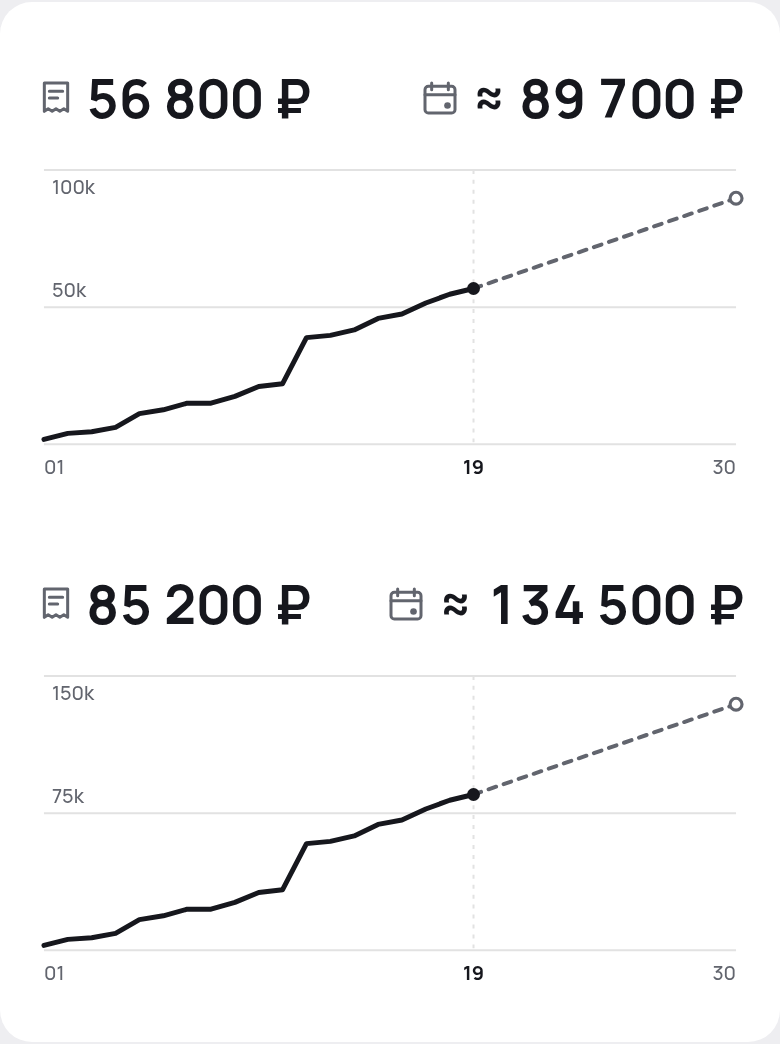
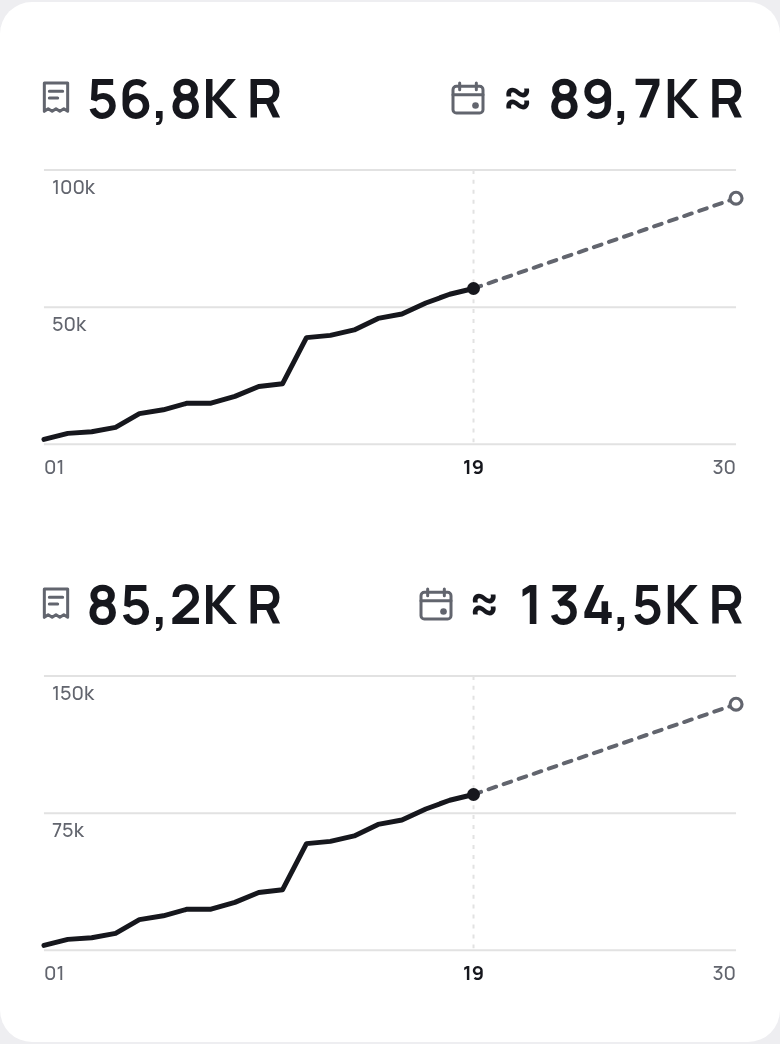
docs: shorten finance month and summary amounts (#267)

diff --git a/design/approved/267/screens.html b/design/approved/267/screens.html
@@ -54,26 +54,26 @@
   .finance-tabs button[aria-current]{color:var(--ink)}
   @media(max-width:360px){.finance-body{padding-inline:12px}}
 </style><main>
-<div class="screen" id="overview"><div class="month"><span aria-hidden="true">‹</span><h1>Ноябрь 2026</h1><span aria-hidden="true">›</span></div>
+<div class="screen" id="overview"><div class="month"><span aria-hidden="true">‹</span><h1>ноя 26</h1><span aria-hidden="true">›</span></div>
 <section class="pace" data-days="30" data-actual-days="19">
     <div class="pace-summary"><div class="pace-amount amount-actual">
       <span class="pace-icon" role="img" aria-label="Потрачено с начала месяца">
         <svg viewBox="0 0 24 24" aria-hidden="true" stroke="currentColor" stroke-width="1.8" stroke-linecap="round">
           <path d="M5 3h14v17l-2.3-1.5-2.4 1.5-2.3-1.5L9.7 20l-2.4-1.5L5 20V3ZM8 8h8m-8 4h5"/>
         </svg></span>
-      <b>28 400 ₽</b></div><div class="pace-amount amount-estimate">
+      <b>28,4K R</b></div><div class="pace-amount amount-estimate">
           <span class="pace-icon" role="img" aria-label="Прогноз на конец месяца">
             <svg viewBox="0 0 24 24" aria-hidden="true" fill="none" stroke="currentColor" stroke-width="1.8" stroke-linecap="round">
               <rect x="3" y="5" width="18" height="16" rx="2"/>
               <path d="M7 3v4m10-4v4M3 10h18"/>
               <circle cx="16.5" cy="16.5" r="2" fill="currentColor" stroke="none"/>
             </svg></span>
-          <b>≈ 44 800 ₽</b></div></div>
+          <b>≈ 44,8K R</b></div></div>
     <svg viewBox="0 0 356 178" role="img" aria-label="С 1 по 19 число потрачено 28 400 ₽. Прогноз на 30 число — около 44 800 ₽.">
       <path d="M4 8H352 M4 77H352 M4 146H352" class="grid"/><line x1="220.00" y1="8" x2="220.00" y2="146" class="cutoff"/><line x1="220.00" y1="67.62" x2="352.00" y2="22.24" class="forecast"/>
         <circle cx="352.00" cy="22.24" r="3" class="estimate-dot"/>
       <polyline points="4.00,143.52 16.00,140.48 28.00,139.65 40.00,137.44 52.00,130.54 64.00,128.61 76.00,125.30 88.00,125.30 100.00,121.85 112.00,116.88 124.00,115.50 136.00,92.32 148.00,91.21 160.00,88.45 172.00,82.66 184.00,80.45 196.00,74.93 208.00,70.51 220.00,67.62" class="trend"/>
-      <circle cx="220.00" cy="67.62" r="3.25" class="actual-dot"/><text class="value-tick" x="8" y="20">50k</text><text class="value-tick" x="8" y="72">25k</text><text class="date-tick" x="4.00" y="161" text-anchor="start">01</text><text class="current-date" x="220.00" y="161" text-anchor="middle">19</text><text class="date-tick" x="352.00" y="161" text-anchor="end">30</text>
+      <circle cx="220.00" cy="67.62" r="3.25" class="actual-dot"/><text class="value-tick" x="8" y="20">50k</text><text class="value-tick" x="8" y="89">25k</text><text class="date-tick" x="4.00" y="161" text-anchor="start">01</text><text class="current-date" x="220.00" y="161" text-anchor="middle">19</text><text class="date-tick" x="352.00" y="161" text-anchor="end">30</text>
     </svg></section><section class="rankings" aria-label="Распределение расходов за месяц">
       <div class="tables">
         <table class="categories">
@@ -104,11 +104,11 @@
         <svg viewBox="0 0 24 24" aria-hidden="true" stroke="currentColor" stroke-width="1.8" stroke-linecap="round">
           <path d="M5 3h14v17l-2.3-1.5-2.4 1.5-2.3-1.5L9.7 20l-2.4-1.5L5 20V3ZM8 8h8m-8 4h5"/>
         </svg></span>
-      <b>36 200 ₽</b></div></div>
+      <b>36,2K R</b></div></div>
     <svg viewBox="0 0 356 178" role="img" aria-label="С 1 по 31 число потрачено 36 200 ₽.">
       <path d="M4 8H352 M4 77H352 M4 146H352" class="grid"/>
       <polyline points="4.00,142.90 15.60,139.10 27.20,138.06 38.80,135.31 50.40,126.68 62.00,124.27 73.60,120.12 85.20,120.12 96.80,115.81 108.40,109.60 120.00,107.88 131.60,78.90 143.20,77.52 154.80,74.07 166.40,66.82 178.00,64.06 189.60,57.16 201.20,51.64 212.80,48.02 224.40,45.78 236.00,43.53 247.60,41.29 259.20,39.05 270.80,36.81 282.40,34.56 294.00,32.32 305.60,30.08 317.20,27.84 328.80,25.59 340.40,23.35 352.00,21.11" class="trend"/>
-      <circle cx="352.00" cy="21.11" r="3.25" class="actual-dot"/><text class="value-tick" x="8" y="20">40k</text><text class="value-tick" x="8" y="72">20k</text><text class="date-tick" x="4.00" y="161" text-anchor="start">01</text><text class="date-tick" x="352.00" y="161" text-anchor="end">31</text>
+      <circle cx="352.00" cy="21.11" r="3.25" class="actual-dot"/><text class="value-tick" x="8" y="20">40k</text><text class="value-tick" x="8" y="89">20k</text><text class="date-tick" x="4.00" y="161" text-anchor="start">01</text><text class="date-tick" x="352.00" y="161" text-anchor="end">31</text>
     </svg></section></div>
 <div class="screen" id="scale-examples"><section class="pace" data-days="30" data-actual-days="19">
     <div class="pace-summary"><div class="pace-amount amount-actual">
@@ -116,38 +116,38 @@
         <svg viewBox="0 0 24 24" aria-hidden="true" stroke="currentColor" stroke-width="1.8" stroke-linecap="round">
           <path d="M5 3h14v17l-2.3-1.5-2.4 1.5-2.3-1.5L9.7 20l-2.4-1.5L5 20V3ZM8 8h8m-8 4h5"/>
         </svg></span>
-      <b>56 800 ₽</b></div><div class="pace-amount amount-estimate">
+      <b>56,8K R</b></div><div class="pace-amount amount-estimate">
           <span class="pace-icon" role="img" aria-label="Прогноз на конец месяца">
             <svg viewBox="0 0 24 24" aria-hidden="true" fill="none" stroke="currentColor" stroke-width="1.8" stroke-linecap="round">
               <rect x="3" y="5" width="18" height="16" rx="2"/>
               <path d="M7 3v4m10-4v4M3 10h18"/>
               <circle cx="16.5" cy="16.5" r="2" fill="currentColor" stroke="none"/>
             </svg></span>
-          <b>≈ 89 700 ₽</b></div></div>
+          <b>≈ 89,7K R</b></div></div>
     <svg viewBox="0 0 356 178" role="img" aria-label="С 1 по 19 число потрачено 56 800 ₽. Прогноз на 30 число — около 89 700 ₽.">
       <path d="M4 8H352 M4 77H352 M4 146H352" class="grid"/><line x1="220.00" y1="8" x2="220.00" y2="146" class="cutoff"/><line x1="220.00" y1="67.62" x2="352.00" y2="22.24" class="forecast"/>
         <circle cx="352.00" cy="22.24" r="3" class="estimate-dot"/>
       <polyline points="4.00,143.52 16.00,140.48 28.00,139.65 40.00,137.44 52.00,130.54 64.00,128.61 76.00,125.30 88.00,125.30 100.00,121.85 112.00,116.88 124.00,115.50 136.00,92.32 148.00,91.21 160.00,88.45 172.00,82.66 184.00,80.45 196.00,74.93 208.00,70.51 220.00,67.62" class="trend"/>
-      <circle cx="220.00" cy="67.62" r="3.25" class="actual-dot"/><text class="value-tick" x="8" y="20">100k</text><text class="value-tick" x="8" y="72">50k</text><text class="date-tick" x="4.00" y="161" text-anchor="start">01</text><text class="current-date" x="220.00" y="161" text-anchor="middle">19</text><text class="date-tick" x="352.00" y="161" text-anchor="end">30</text>
+      <circle cx="220.00" cy="67.62" r="3.25" class="actual-dot"/><text class="value-tick" x="8" y="20">100k</text><text class="value-tick" x="8" y="89">50k</text><text class="date-tick" x="4.00" y="161" text-anchor="start">01</text><text class="current-date" x="220.00" y="161" text-anchor="middle">19</text><text class="date-tick" x="352.00" y="161" text-anchor="end">30</text>
     </svg></section><section class="pace" data-days="30" data-actual-days="19">
     <div class="pace-summary"><div class="pace-amount amount-actual">
       <span class="pace-icon" role="img" aria-label="Потрачено с начала месяца">
         <svg viewBox="0 0 24 24" aria-hidden="true" stroke="currentColor" stroke-width="1.8" stroke-linecap="round">
           <path d="M5 3h14v17l-2.3-1.5-2.4 1.5-2.3-1.5L9.7 20l-2.4-1.5L5 20V3ZM8 8h8m-8 4h5"/>
         </svg></span>
-      <b>85 200 ₽</b></div><div class="pace-amount amount-estimate">
+      <b>85,2K R</b></div><div class="pace-amount amount-estimate">
           <span class="pace-icon" role="img" aria-label="Прогноз на конец месяца">
             <svg viewBox="0 0 24 24" aria-hidden="true" fill="none" stroke="currentColor" stroke-width="1.8" stroke-linecap="round">
               <rect x="3" y="5" width="18" height="16" rx="2"/>
               <path d="M7 3v4m10-4v4M3 10h18"/>
               <circle cx="16.5" cy="16.5" r="2" fill="currentColor" stroke="none"/>
             </svg></span>
-          <b>≈ 134 500 ₽</b></div></div>
+          <b>≈ 134,5K R</b></div></div>
     <svg viewBox="0 0 356 178" role="img" aria-label="С 1 по 19 число потрачено 85 200 ₽. Прогноз на 30 число — около 134 500 ₽.">
       <path d="M4 8H352 M4 77H352 M4 146H352" class="grid"/><line x1="220.00" y1="8" x2="220.00" y2="146" class="cutoff"/><line x1="220.00" y1="67.62" x2="352.00" y2="22.24" class="forecast"/>
         <circle cx="352.00" cy="22.24" r="3" class="estimate-dot"/>
       <polyline points="4.00,143.52 16.00,140.48 28.00,139.65 40.00,137.44 52.00,130.54 64.00,128.61 76.00,125.30 88.00,125.30 100.00,121.85 112.00,116.88 124.00,115.50 136.00,92.32 148.00,91.21 160.00,88.45 172.00,82.66 184.00,80.45 196.00,74.93 208.00,70.51 220.00,67.62" class="trend"/>
-      <circle cx="220.00" cy="67.62" r="3.25" class="actual-dot"/><text class="value-tick" x="8" y="20">150k</text><text class="value-tick" x="8" y="72">75k</text><text class="date-tick" x="4.00" y="161" text-anchor="start">01</text><text class="current-date" x="220.00" y="161" text-anchor="middle">19</text><text class="date-tick" x="352.00" y="161" text-anchor="end">30</text>
+      <circle cx="220.00" cy="67.62" r="3.25" class="actual-dot"/><text class="value-tick" x="8" y="20">150k</text><text class="value-tick" x="8" y="89">75k</text><text class="date-tick" x="4.00" y="161" text-anchor="start">01</text><text class="current-date" x="220.00" y="161" text-anchor="middle">19</text><text class="date-tick" x="352.00" y="161" text-anchor="end">30</text>
     </svg></section></div>
 <div class="finance" id="finance">
       <div class="finance-body">
@@ -155,26 +155,26 @@
           <button class="account-add" aria-label="Создать счёт"><svg viewBox="0 0 24 24" aria-hidden="true"><path d="M12 5v14M5 12h14" stroke="currentColor" stroke-width="2" stroke-linecap="round"/></svg></button></div>
         <div class="accounts"><div><p>💳 Карта</p><b>42 300 ₽</b></div><div><p>👛 Наличные</p><b>6 150 ₽</b></div><div><p>🏦 Накопления</p><b>80 000 ₽</b></div></div>
         <div class="finance-month"><button aria-label="Предыдущий месяц"><svg viewBox="0 0 24 24" aria-hidden="true"><path d="m14 7-5 5 5 5" fill="none" stroke="currentColor" stroke-width="2" stroke-linecap="round" stroke-linejoin="round"/></svg></button>
-          <h1>Ноябрь 2026</h1><button aria-label="Следующий месяц" disabled><svg viewBox="0 0 24 24" aria-hidden="true"><path d="m14 7-5 5 5 5" fill="none" stroke="currentColor" stroke-width="2" stroke-linecap="round" stroke-linejoin="round"/></svg></button></div>
+          <h1>ноя 26</h1><button aria-label="Следующий месяц" disabled><svg viewBox="0 0 24 24" aria-hidden="true"><path d="m14 7-5 5 5 5" fill="none" stroke="currentColor" stroke-width="2" stroke-linecap="round" stroke-linejoin="round"/></svg></button></div>
         <section class="pace" data-days="30" data-actual-days="19">
     <div class="pace-summary"><div class="pace-amount amount-actual">
       <span class="pace-icon" role="img" aria-label="Потрачено с начала месяца">
         <svg viewBox="0 0 24 24" aria-hidden="true" stroke="currentColor" stroke-width="1.8" stroke-linecap="round">
           <path d="M5 3h14v17l-2.3-1.5-2.4 1.5-2.3-1.5L9.7 20l-2.4-1.5L5 20V3ZM8 8h8m-8 4h5"/>
         </svg></span>
-      <b>28 400 ₽</b></div><div class="pace-amount amount-estimate">
+      <b>28,4K R</b></div><div class="pace-amount amount-estimate">
           <span class="pace-icon" role="img" aria-label="Прогноз на конец месяца">
             <svg viewBox="0 0 24 24" aria-hidden="true" fill="none" stroke="currentColor" stroke-width="1.8" stroke-linecap="round">
               <rect x="3" y="5" width="18" height="16" rx="2"/>
               <path d="M7 3v4m10-4v4M3 10h18"/>
               <circle cx="16.5" cy="16.5" r="2" fill="currentColor" stroke="none"/>
             </svg></span>
-          <b>≈ 44 800 ₽</b></div></div>
+          <b>≈ 44,8K R</b></div></div>
     <svg viewBox="0 0 356 178" role="img" aria-label="С 1 по 19 число потрачено 28 400 ₽. Прогноз на 30 число — около 44 800 ₽.">
       <path d="M4 8H352 M4 77H352 M4 146H352" class="grid"/><line x1="220.00" y1="8" x2="220.00" y2="146" class="cutoff"/><line x1="220.00" y1="67.62" x2="352.00" y2="22.24" class="forecast"/>
         <circle cx="352.00" cy="22.24" r="3" class="estimate-dot"/>
       <polyline points="4.00,143.52 16.00,140.48 28.00,139.65 40.00,137.44 52.00,130.54 64.00,128.61 76.00,125.30 88.00,125.30 100.00,121.85 112.00,116.88 124.00,115.50 136.00,92.32 148.00,91.21 160.00,88.45 172.00,82.66 184.00,80.45 196.00,74.93 208.00,70.51 220.00,67.62" class="trend"/>
-      <circle cx="220.00" cy="67.62" r="3.25" class="actual-dot"/><text class="value-tick" x="8" y="20">50k</text><text class="value-tick" x="8" y="72">25k</text><text class="date-tick" x="4.00" y="161" text-anchor="start">01</text><text class="current-date" x="220.00" y="161" text-anchor="middle">19</text><text class="date-tick" x="352.00" y="161" text-anchor="end">30</text>
+      <circle cx="220.00" cy="67.62" r="3.25" class="actual-dot"/><text class="value-tick" x="8" y="20">50k</text><text class="value-tick" x="8" y="89">25k</text><text class="date-tick" x="4.00" y="161" text-anchor="start">01</text><text class="current-date" x="220.00" y="161" text-anchor="middle">19</text><text class="date-tick" x="352.00" y="161" text-anchor="end">30</text>
     </svg></section><section class="rankings" aria-label="Распределение расходов за месяц">
       <div class="tables">
         <table class="categories">

diff --git a/design/approved/267/render.js b/design/approved/267/render.js
@@ -30,8 +30,8 @@ const path = require('node:path');
     const pace = overview.locator('.pace');
     assert.equal(await pace.getAttribute('data-days'), '30');
     assert.equal(await pace.getAttribute('data-actual-days'), '19');
-    assert.match(await pace.locator('.amount-actual').innerText(), /^28\s*400\s*₽$/);
-    assert.match(await pace.locator('.amount-estimate').innerText(), /^≈\s*44\s*800\s*₽$/);
+    assert.match(await pace.locator('.amount-actual').innerText(), /^28,4K\sR$/);
+    assert.match(await pace.locator('.amount-estimate').innerText(), /^≈\s44,8K\sR$/);
     assert.equal(await pace.locator('.pace-summary svg').count(), 2);
     assert.deepEqual(await pace.locator('.date-tick, .current-date').allTextContents(), ['01', '19', '30']);
     assert.equal(await pace.locator('.current-date').textContent(), '19');
@@ -69,6 +69,8 @@ const path = require('node:path');
       const pathData = await chart.locator('.grid').getAttribute('d');
       const guides = [...pathData.matchAll(/M\d+ (\d+)H\d+/g)].map(match => Number(match[1]));
       assert.deepEqual(guides, [8, 77, 146]);
+      const middleLabelY = Number(await chart.locator('.value-tick').nth(1).getAttribute('y'));
+      assert(middleLabelY > guides[1] && middleLabelY < guides[2]);
       const datePositions = await chart.locator('.date-tick, .current-date').evaluateAll(labels =>
         labels.map(label => Number(label.getAttribute('y'))));
       assert(datePositions.every(position => position > guides.at(-1)), 'Даты находятся под графиком');
@@ -102,6 +104,7 @@ const path = require('node:path');
     await page.locator('#missing').screenshot({ path: path.join(__dirname, 'without-places.png') });
 
     const finance = page.locator('#finance');
+    assert.equal(await finance.locator('.finance-month h1').innerText(), 'ноя 26');
     assert(await finance.evaluate(screen => screen.scrollWidth <= screen.clientWidth));
     await page.setViewportSize({ width: 400, height: 900 });
     await page.addStyleTag({ content: 'main { display: block; padding: 0 } main > :not(#finance) { display: none }' });

diff --git a/design/approved/267/screens.py b/design/approved/267/screens.py
@@ -12,6 +12,7 @@ exec(compile(source.read_text().split('\npriority = re.search', 1)[0], str(sourc
 color = design['color']
 dim = design['dim']
 vector = design['vector']
+month_label = 'ноя 26'
 daily = [900, 1100, 300, 800, 2500, 700, 1200, 0, 1250, 1800, 500, 8400, 400, 1000, 2100, 800, 2000, 1600, 1050]
 categories = [('Продукты', '🛒', 12400), ('Транспорт', '🚕', 6400), ('Кафе', '☕', 4200), ('Дом', '🏠', 3500), ('Здоровье', '💊', 1100), ('Связь', '📱', 800)]
 places = [('Пятёрочка', 6860), ('Лента', 5270), ('ВкусВилл', 4220), ('Додо Пицца', 3150), ('Аптека', 2100), ('Кофейня', 900)]
@@ -27,6 +28,13 @@ def digits(amount):
 
 def money(amount):
     return digits(amount) + '\u00a0₽'
+
+
+def compact_money(amount):
+    if amount < 1000:
+        return f'{amount}\u00a0R'
+    thousands = f'{amount / 1000:,.1f}'.removesuffix('.0').replace(',', '\u00a0').replace('.', ',')
+    return f'{thousands}K\u00a0R'
 
 
 def scale_ceiling(amount):
@@ -57,9 +65,9 @@ def pace(amounts, year, month):
     axis = [ceiling, ceiling // 2, 0]
     grid = ' '.join(f'M{left} {y(value):g}H{right}' for value in axis)
     value_ticks = []
-    for value, offset in zip(axis[:2], [12, -5]):
+    for value in axis[:2]:
         label = f'{value / 1000:.3f}'.rstrip('0').rstrip('.') + 'k'
-        value_ticks.append(f'<text class="value-tick" x="{left + 4}" y="{y(value) + offset:g}">{label}</text>')
+        value_ticks.append(f'<text class="value-tick" x="{left + 4}" y="{y(value) + 12:g}">{label}</text>')
     date_baseline = bottom + 15
     date_ticks = {1: ('start', date_baseline), last_day: ('end', date_baseline)}
     if partial and as_of != 1:
@@ -75,12 +83,11 @@ def pace(amounts, year, month):
     if partial:
         cutoff = f'<line x1="{x(as_of):.2f}" y1="{top}" x2="{x(as_of):.2f}" y2="{bottom}" class="cutoff"/>'
     forecast = ''
-    actual_text = money(actual)
     estimate_amount = ''
-    description = f'С 1 по {as_of} число потрачено {actual_text}.'
+    description = f'С 1 по {as_of} число потрачено {money(actual)}.'
     if estimate is not None:
-        projected = money(round(estimate / 100) * 100)
-        description += f' Прогноз на {last_day} число — около {projected}.'
+        projected = round(estimate / 100) * 100
+        description += f' Прогноз на {last_day} число — около {money(projected)}.'
         estimate_amount = f'''<div class="pace-amount amount-estimate">
           <span class="pace-icon" role="img" aria-label="Прогноз на конец месяца">
             <svg viewBox="0 0 24 24" aria-hidden="true" fill="none" stroke="currentColor" stroke-width="1.8" stroke-linecap="round">
@@ -88,7 +95,7 @@ def pace(amounts, year, month):
               <path d="M7 3v4m10-4v4M3 10h18"/>
               <circle cx="16.5" cy="16.5" r="2" fill="currentColor" stroke="none"/>
             </svg></span>
-          <b>≈ {projected}</b></div>'''
+          <b>≈ {compact_money(projected)}</b></div>'''
         forecast = f'''<line x1="{x(as_of):.2f}" y1="{y(actual):.2f}" x2="{x(last_day):.2f}" y2="{y(estimate):.2f}" class="forecast"/>
         <circle cx="{x(last_day):.2f}" cy="{y(estimate):.2f}" r="3" class="estimate-dot"/>'''
     return f'''<section class="pace" data-days="{last_day}" data-actual-days="{as_of}">
@@ -97,7 +104,7 @@ def pace(amounts, year, month):
         <svg viewBox="0 0 24 24" aria-hidden="true" stroke="currentColor" stroke-width="1.8" stroke-linecap="round">
           <path d="M5 3h14v17l-2.3-1.5-2.4 1.5-2.3-1.5L9.7 20l-2.4-1.5L5 20V3ZM8 8h8m-8 4h5"/>
         </svg></span>
-      <b>{actual_text}</b></div>{estimate_amount}</div>
+      <b>{compact_money(actual)}</b></div>{estimate_amount}</div>
     <svg viewBox="0 0 356 178" role="img" aria-label="{description}">
       <path d="{grid}" class="grid"/>{cutoff}{forecast}
       <polyline points="{coords}" class="trend"/>
@@ -150,7 +157,7 @@ def finance_home():
           <button class="account-add" aria-label="Создать счёт">{plus}</button></div>
         <div class="accounts">{balances}</div>
         <div class="finance-month"><button aria-label="Предыдущий месяц">{prev}</button>
-          <h1>Ноябрь 2026</h1><button aria-label="Следующий месяц" disabled>{prev}</button></div>
+          <h1>{month_label}</h1><button aria-label="Следующий месяц" disabled>{prev}</button></div>
         {month_content()}
       </div>
       <nav class="finance-bar" aria-label="Финансы">
@@ -219,7 +226,7 @@ CSS = design['fonts'] + f''':root{{--ink:{color('textPrimary')};--muted:{color('
 '''
 document = f'''<!doctype html><html lang="ru"><meta charset="utf-8"><meta name="viewport" content="width=device-width, initial-scale=1"><title>Аналитика месяца · #267</title>
 <style>{CSS}</style><main>
-<div class="screen" id="overview"><div class="month"><span aria-hidden="true">‹</span><h1>Ноябрь 2026</h1><span aria-hidden="true">›</span></div>
+<div class="screen" id="overview"><div class="month"><span aria-hidden="true">‹</span><h1>{month_label}</h1><span aria-hidden="true">›</span></div>
 {month_content()}</div>
 <div class="screen small" id="missing">{rankings(named_places=[])}</div>
 <div class="screen small" id="completed">{pace([*daily, *([650] * 12)], 2026, 10)}</div>

diff --git a/design/approved/267/README.md b/design/approved/267/README.md
@@ -2,13 +2,13 @@
 
 19.11.2026. Codex. Три блока по последнему уточнению PM. Темп расходов со шкалой на целый месяц и пунктирным прогнозом, две таблицы в одной строке, категории слева и места справа. На согласовании формула и детали отображения. [Требования](requirements.md) · [Issue #267](https://github.com/prostovasei/simpe-tasks-app/issues/267).
 
-- [Первый экран «Финансы» целиком](finance-home.png). Счета, выбор месяца и аналитика на общем белом фоне. Блоки контента разделены отступами. Вкладка «Аналитика» выбрана.
+- [Первый экран «Финансы» целиком](finance-home.png). Счета, выбор месяца в формате «ноя 26» и аналитика на общем белом фоне. Блоки контента разделены отступами. Вкладка «Аналитика» выбрана.
 - [Аналитика месяца крупнее](month.png) с тремя блоками на вымышленных суммах.
-- [Шкалы графика до 100k и 150k](chart-scales.png). Под графиком дни в формате 01, 19, 30. Денежные подписи стоят у верхней и средней горизонталей.
+- [Шкалы графика до 100k и 150k](chart-scales.png). Под графиком дни в формате 01, 19, 30. Денежные подписи стоят под верхней и средней горизонталями.
 - [Две таблицы крупнее](rankings.png) · [узкий экран 320 px](rankings-narrow.png). В каждой четыре пронумерованных лидера и строка «Остальное».
 - [Операции без указанного места](without-places.png). В правой таблице только «Остальное» с полной суммой.
 - [HTML](screens.html) · [генератор](screens.py) · [рендер](render.js).
 
-Аналитика расположена под счетами и переключателем месяца. В строке над графиком потраченная сумма с иконкой кассового чека и прогноз с иконкой календаря с отмеченным последним днём. Пунктир продолжается от сегодняшней суммы до прогноза на конец месяца. В обеих таблицах номер, название и сумма. У категорий есть иконки. Расходы без места входят в «Остальное» справа. Знак ₽ указан над каждой колонкой сумм. Названия магазинов приведены для примера. [Плоский стиль «Недели»](../../../app/screenshots/week_light.png) · [Порядок элементов в «Финансах»](../../../app/screenshots/finance_analytics_light.png).
+Аналитика расположена под счетами и переключателем месяца. В строке над графиком потраченная сумма с иконкой кассового чека и прогноз с иконкой календаря с отмеченным последним днём. Пример сумм — 28,4K R и ≈ 44,8K R. Пунктир продолжается от сегодняшней суммы до прогноза на конец месяца. В обеих таблицах номер, название и сумма. У категорий есть иконки. Расходы без места входят в «Остальное» справа. Знак ₽ указан над каждой колонкой сумм. Названия магазинов приведены для примера. [Плоский стиль «Недели»](../../../app/screenshots/week_light.png) · [Порядок элементов в «Финансах»](../../../app/screenshots/finance_analytics_light.png).
 
 Воспроизведение из корня: `python3 design/approved/267/screens.py && node design/approved/267/render.js`. Сверены суммы, положение точки факта и конца прогноза, горизонтали и подписи шкал 50k, 100k и 150k. Проверены завершённый месяц, строка «Остальное», размещение двух сумм и таблиц на ширине 320 px. Для изменения Android-кода нужна команда «Делай код».

diff --git a/design/approved/267/requirements.md b/design/approved/267/requirements.md
@@ -9,7 +9,7 @@
 5. В правой таблице «Остальное» включает расходы по оставшимся местам и расходы без указанного места. Если ни в одной операции место не указано, в правой таблице одна строка «Остальное» с полной суммой.
 6. Знак ₽ стоит над колонкой сумм каждой таблицы. В ячейках только числа. Сумма строк каждой таблицы равна фактическим расходам месяца.
 7. Первый экран «Финансы» оформлен в плоском стиле «Недели». Счета, переключатель месяца, итог, график и обе таблицы расположены на общем белом фоне. Блоки контента разделены отступами. «+» у счетов и стрелки месяца показаны значками без подложки. Нижняя панель использует общий стиль модулей.
-8. Дни под графиком записаны двумя цифрами, например 01, 19, 30. В текущем месяце сегодняшняя дата выделена, над ней проходит вертикальный пунктир. Три горизонтали соответствуют нулю, половине шкалы и её верхней границе. Подписаны верхняя и средняя отметки в формате 150k и 75k. Граница округляется вверх по прогнозу или по факту завершённого месяца. Для пустого графика верхняя отметка 1k.
-9. Над графиком одна строка с крупными суммами. Текстовый заголовок убран. Слева потраченная сумма с иконкой кассового чека, справа прогноз с «≈» и иконкой календаря с отмеченным последним днём. Период задаётся переключателем месяца и днями под графиком.
+8. Дни под графиком записаны двумя цифрами, например 01, 19, 30. В текущем месяце сегодняшняя дата выделена, над ней проходит вертикальный пунктир. Три горизонтали соответствуют нулю, половине шкалы и её верхней границе. Подписи в формате 150k и 75k стоят под верхней и средней горизонталями. Граница округляется вверх по прогнозу или по факту завершённого месяца. Для пустого графика верхняя отметка 1k.
+9. Над графиком одна строка с крупными суммами в формате 20K R или 28,4K R, с округлением до одной цифры после запятой. Суммы меньше тысячи отображаются в рублях с R. Слева потраченная сумма с иконкой кассового чека, справа прогноз с «≈» и иконкой календаря с отмеченным последним днём. Месяц в переключателе сокращён до формата «ноя 26».
 
 Рабочая ветка codex/finance-month-insights от main 5992db2. Детали оформления и формула прогноза на согласовании. После показа макета для Android-реализации нужна отдельная команда «Делай код».
